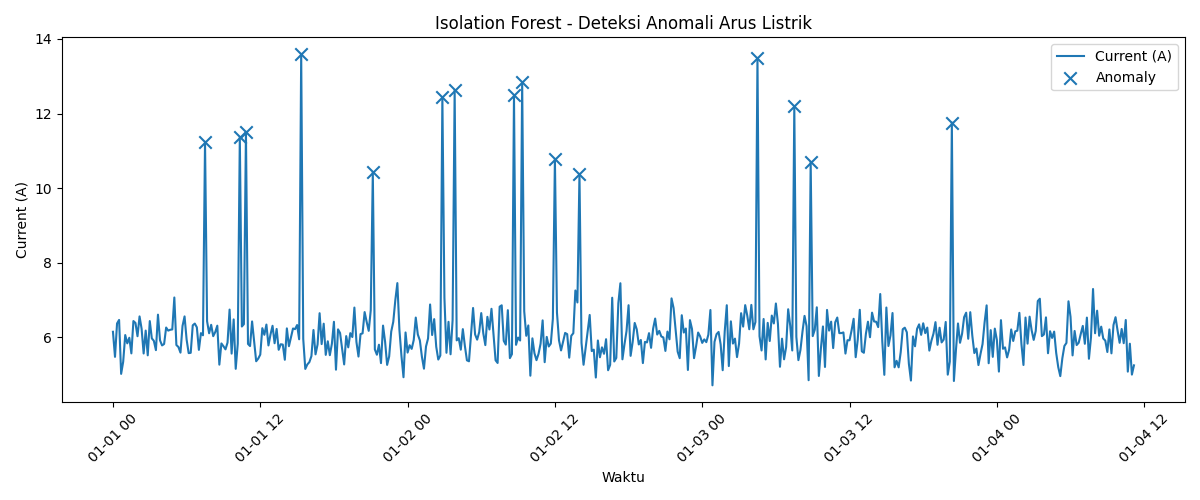
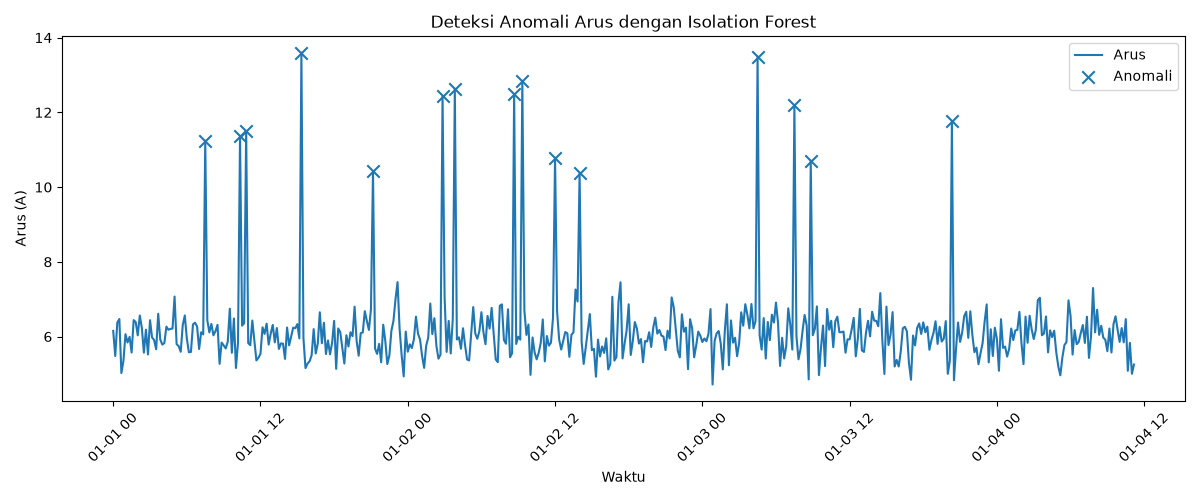
refactor: clarify anomaly detection chart labels

diff --git a/scripts/isolation_forest_current.py b/scripts/isolation_forest_current.py
@@ -27,17 +27,17 @@ print(df["iforest_anomaly"].value_counts())
 df.to_csv("outputs/reports/current_iforest_results.csv", index=False)
 # Visualisasi
 plt.figure(figsize=(12, 5))
-plt.plot(df["timestamp"], df["current_amp"], label="Current (A)")
+plt.plot(df["timestamp"], df["current_amp"], label="Arus")
 plt.scatter(
     df.loc[df["iforest_anomaly"] == 1, "timestamp"],
     df.loc[df["iforest_anomaly"] == 1, "current_amp"],
     marker="x",
     s=80,
-    label="Anomaly"
+    label="Anomali"
 )
-plt.title("Isolation Forest - Deteksi Anomali Arus Listrik")
+plt.title("Deteksi Anomali Arus dengan Isolation Forest")
 plt.xlabel("Waktu")
-plt.ylabel("Current (A)")
+plt.ylabel("Arus (A)")
 plt.xticks(rotation=45)
 plt.legend()
 plt.tight_layout()
